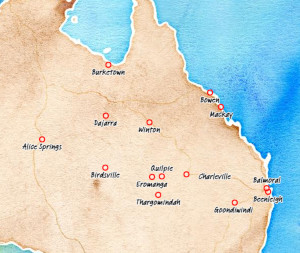
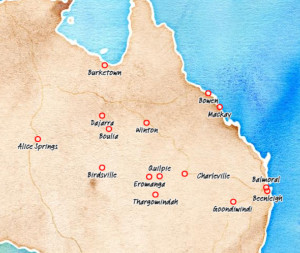
Boulia

diff --git a/index.html b/index.html
@@ -782,8 +782,8 @@ a {
 }
   
 .st-cover-as {    
-    left: 50.2%;
-    top: 35.7%;
+    left: 49.5%;
+    top: 37.5%;
 }
 
 .st-cover-bv {    
@@ -792,8 +792,8 @@ a {
 }
 
 .st-cover-dj {    
-    left: 60.5%;
-    top: 30.8%;   
+    left: 59.9%;
+    top: 32.5%;   
 }
 
 .st-cover-bt {    
@@ -853,8 +853,8 @@ a {
 @media only screen and (max-width: 900px) {
 
 	.st-cover-as {
-		left: 46%; 
-		top: 43%;    
+		left: 43.5%; 
+		top: 45%;    
 	}
 
 	.st-cover-bv {
@@ -863,8 +863,8 @@ a {
 	}
 
 	.st-cover-dj {
-		left: 59.7%; 
-		top: 37%;
+		left: 57.2%; 
+		top: 39%;
 	}
 
 	.st-cover-bt { 
@@ -1698,72 +1698,72 @@ a {
 @media only screen and (max-width: 400px) {
 
 	.st-cover-as {         
-		left: 14%;
+		left: 12.7%;
 		top: 54%;       
 	}
 
 	.st-cover-bv {  
-		left: 35%;
-		top: 65%; 
+		left: 36%;
+		top: 66%; 
 	}
 
 	.st-cover-dj {
-		left: 35.3%;
-		top: 44.5%;
+		left: 34.0%;
+		top: 45.3%;
 	}
 
 	.st-cover-bt {   
-		left: 36%;
-		top: 25%;
+		left: 37%;
+		top: 26%;
 	}
 	.st-cover-wt {  
-		left: 50%;
-		top: 48%;
+		left: 51%;
+		top: 49%;
 	}
 
 	.st-cover-bw { 
-		left: 70%;
-		top: 35%;
+		left: 71%;
+		top: 36%;
 	}
 
 	.st-cover-mk {  
-		left: 73.5%;
-		top: 41%;
+		left: 74.5%;
+		top: 42%;
 	}
 
 	.st-cover-qp {
-		left: 54%;
-		top: 68%;
+		left: 55%;
+		top: 69%;
 	}
 
 	.st-cover-em { 
-		left: 51%;
-		top: 68.4%;
+		left: 52%;
+		top: 69.4%;
 	}
 
 	.st-cover-cv { 
-		left: 62%;
-		top: 67%;
+		left: 63%;
+		top: 68%;
 	}
 
 	.st-cover-gw {  
-		left: 78.3%;
-		top: 78%;
+		left: 79.3%;
+		top: 79%;
 	}
 
 	.st-cover-bm {     
-		left: 89%;
-		top: 72%;
+		left: 90%;
+		top: 73%;
 	}
 
 	.st-cover-bl { 
-		left: 90%;
-		top: 74%;
+		left: 91%;
+		top: 75%;
 	}
 
 	.st-cover-tm {
-		left: 53%;
-		top: 75.6%;
+		left: 54%;
+		top: 76.6%;
 	}
 
 }
@@ -1957,6 +1957,7 @@ a {
 					<p class="st-navy-font st-align-center">9th and 10th <span class="st-orange-font">Quilpie</span></p>
 					<p class="st-navy-font st-align-center">12th - 18th May <span class="st-orange-font">Winton</span></p>
 					<p class="st-navy-font st-align-center">23rd - 27th May <span class="st-orange-font">Thargomindah</span></p>
+					<p class="st-navy-font st-align-center">7th June <span class="st-orange-font">Boulia</span></p>					
 					<p class="st-navy-font st-align-center">30th May - 24th June <span class="st-orange-font">Birdsville (TBC)</span></p>
 
 					<br/>
